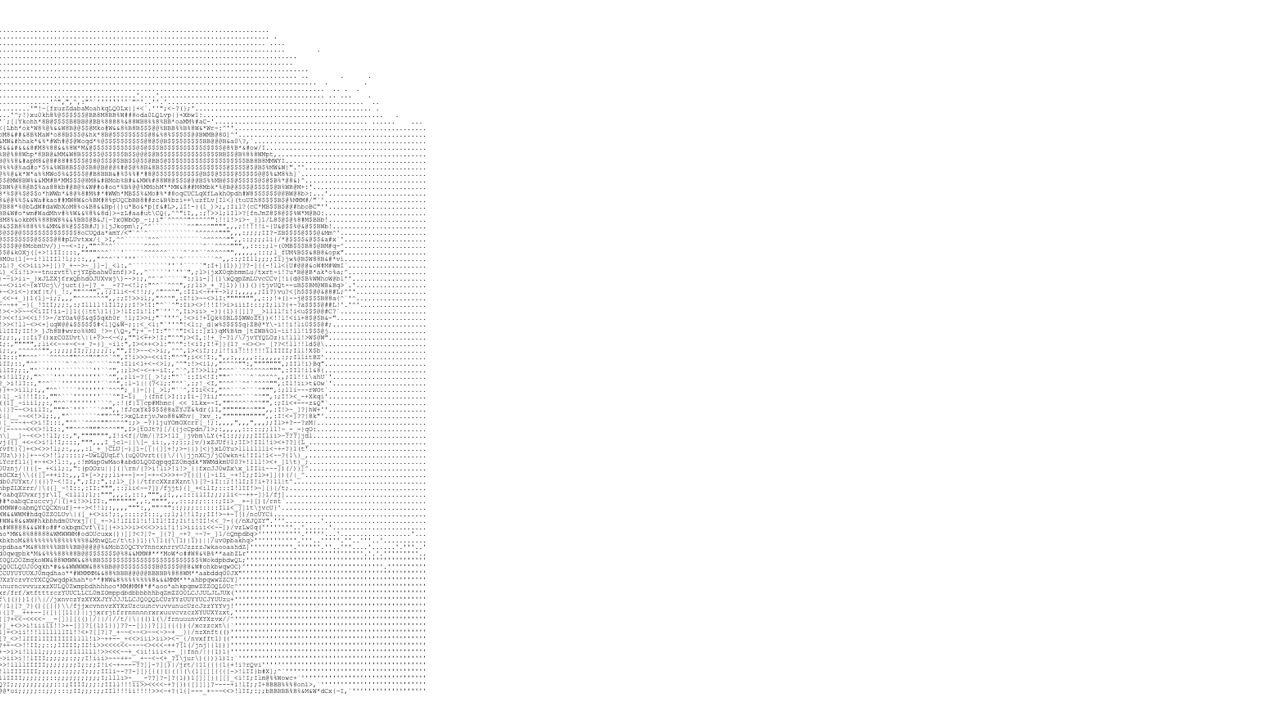
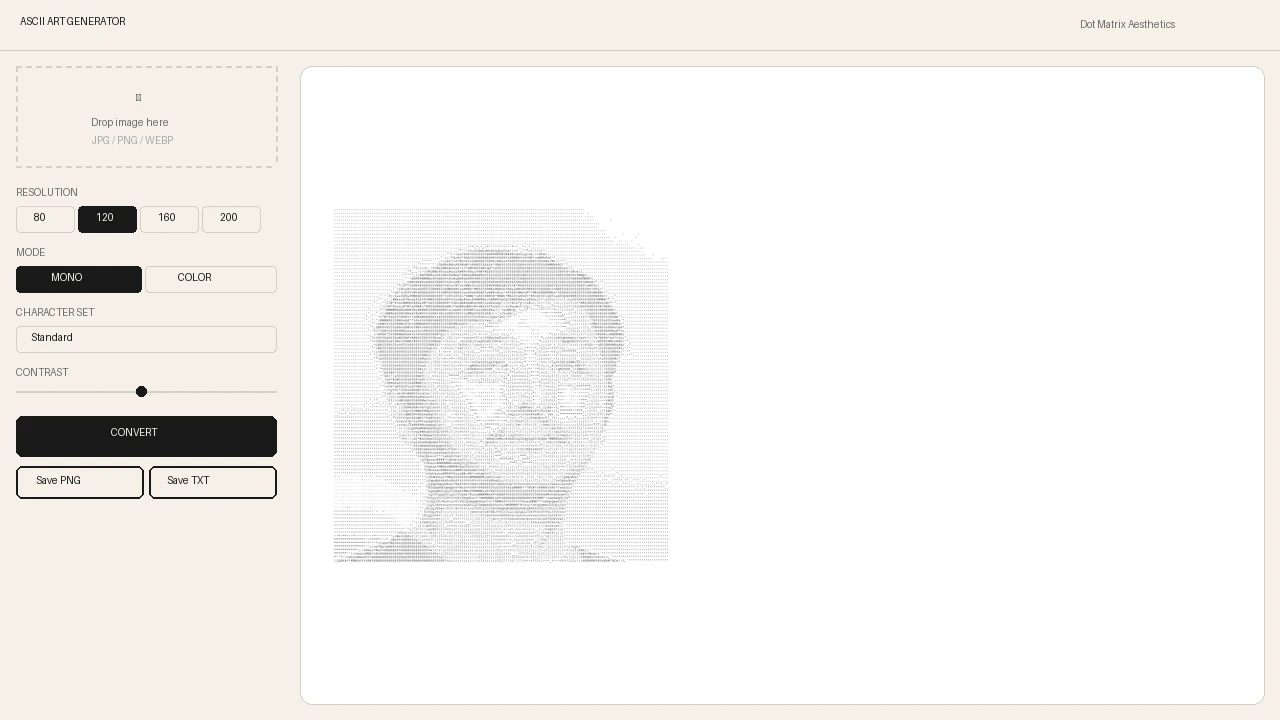
ninesとASCII Artのサムネをサイトレイアウト再現版に更新 + cache buster v6

Changed region(s): [[0.0, 0.0, 0.5312, 0.9778], [0.8438, 0.0306, 0.9062, 0.0611]]

diff --git a/index.html b/index.html
@@ -316,7 +316,7 @@
         const title = item.title;
         const href = item.url ? ` href="${item.url}" target="_blank" rel="noopener"` : '';
         const slug = slugify(item.url);
-        const thumbUrl = `thumbs/${slug}.webp?v=5`;
+        const thumbUrl = `thumbs/${slug}.webp?v=6`;
         const hiddenClass = idx >= VISIBLE_COUNT ? ' hidden-panel' : '';
 
         let badgeHtml = '';
